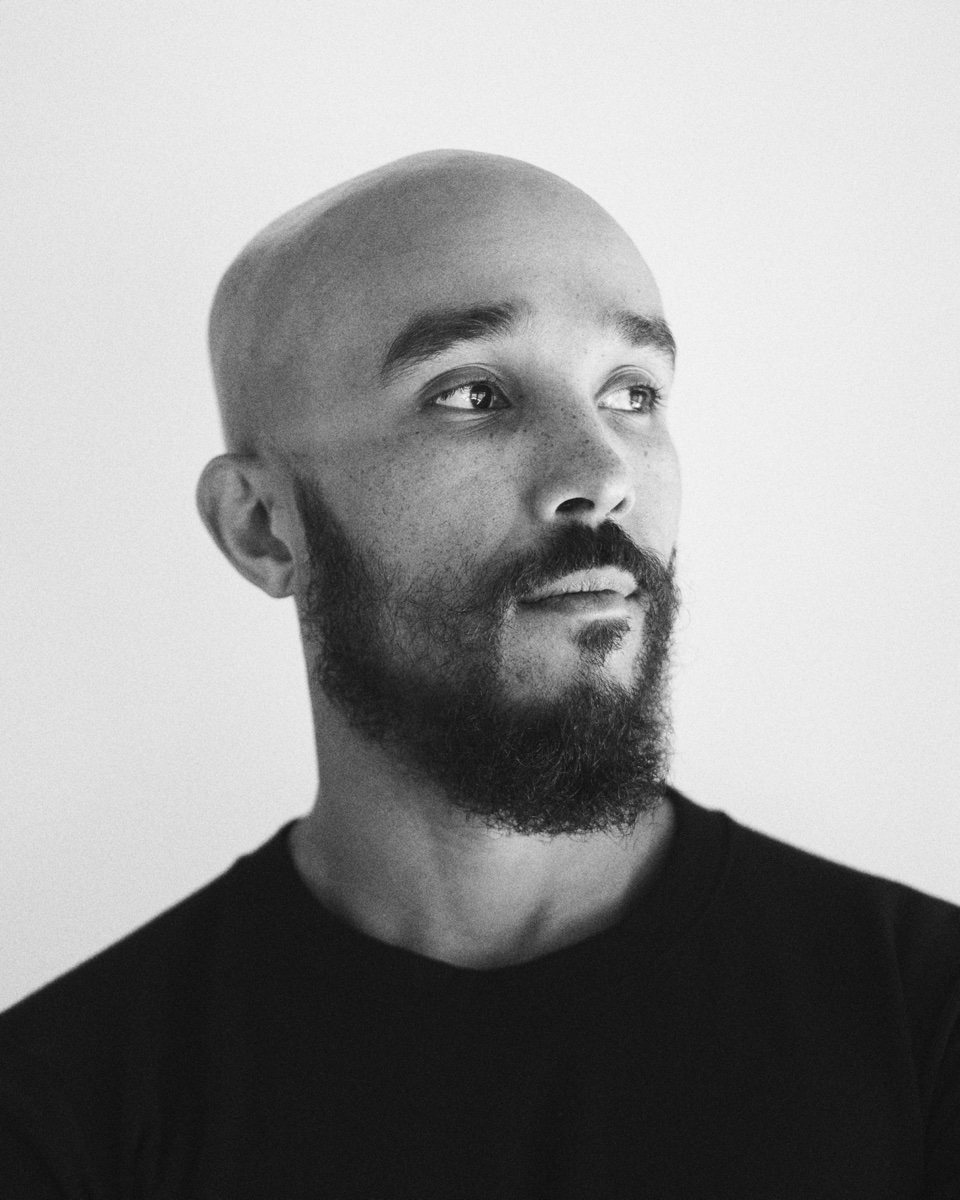
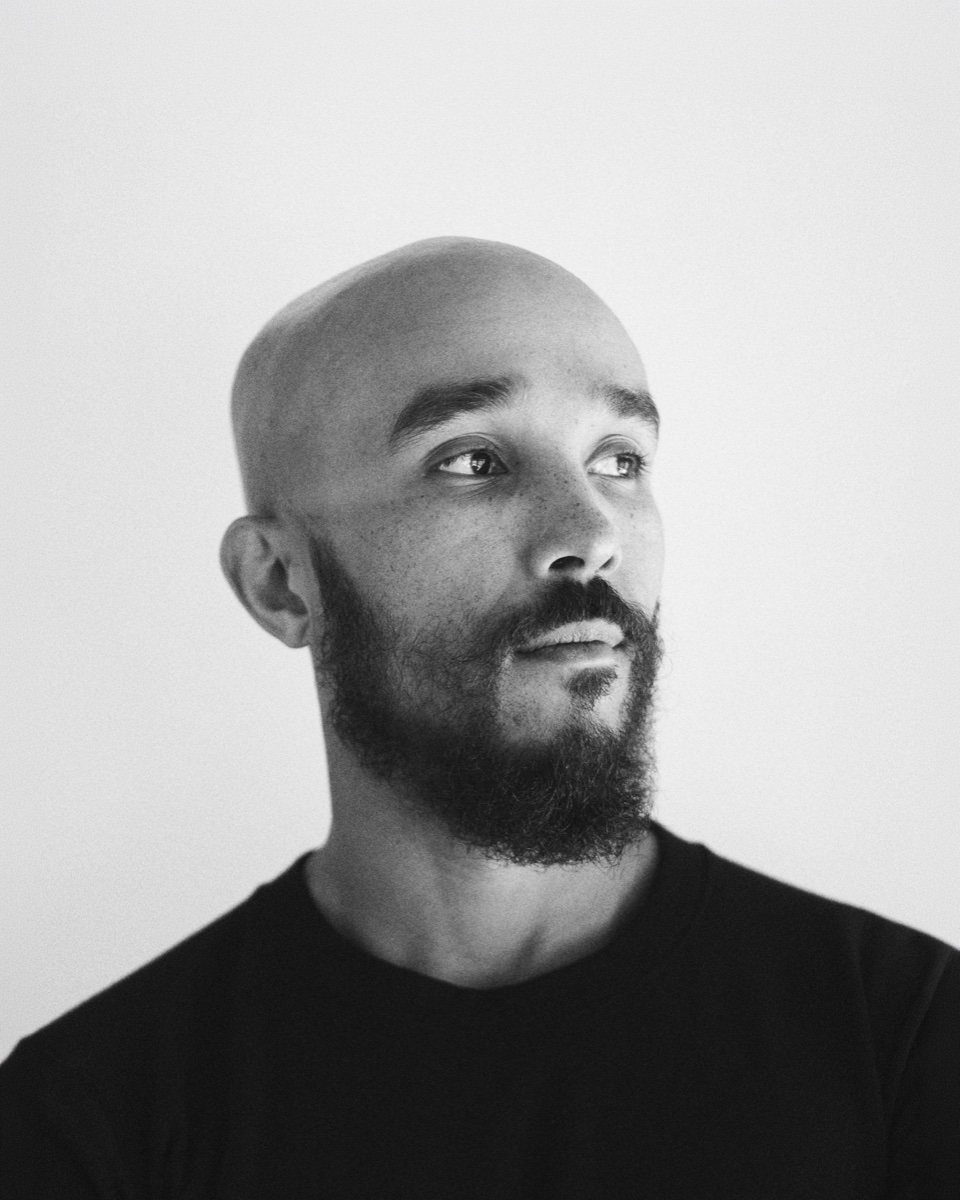
Update About photo with latest aboutme5 edit

Changed region(s): [[0.0, 0.1233, 1.0, 0.8942], [0.3125, 0.3392, 0.3438, 0.37]]

diff --git a/index.html b/index.html
@@ -288,7 +288,7 @@
     <div class="wrap">
       <div class="head"><h2>About</h2></div>
       <div class="about">
-        <div class="portrait"><img id="about-img" src="headshot/web/aboutme5.jpg?v=2" alt="Portrait of Terrence Williams" loading="lazy"></div>
+        <div class="portrait"><img id="about-img" src="headshot/web/aboutme5.jpg?v=3" alt="Portrait of Terrence Williams" loading="lazy"></div>
         <div class="copy">
           <p class="big">Born and raised in LA. I make pictures that sell the product and tell a story at the same time.</p>
           <p>I studied Multimedia Production at Cal State Northridge and have spent the past decade working across product, fashion, and marketing photography. Today, I lead product photography at GOAT, shaping imagery at the intersection of footwear, fashion, and culture.</p>
